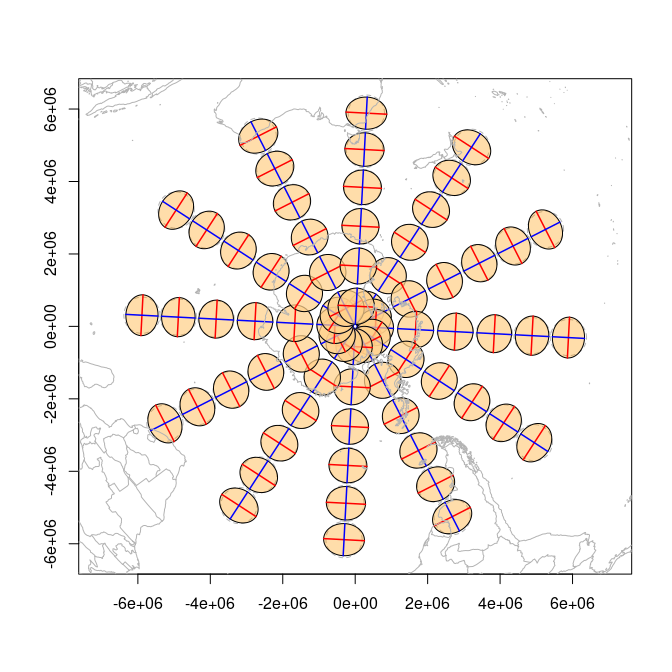
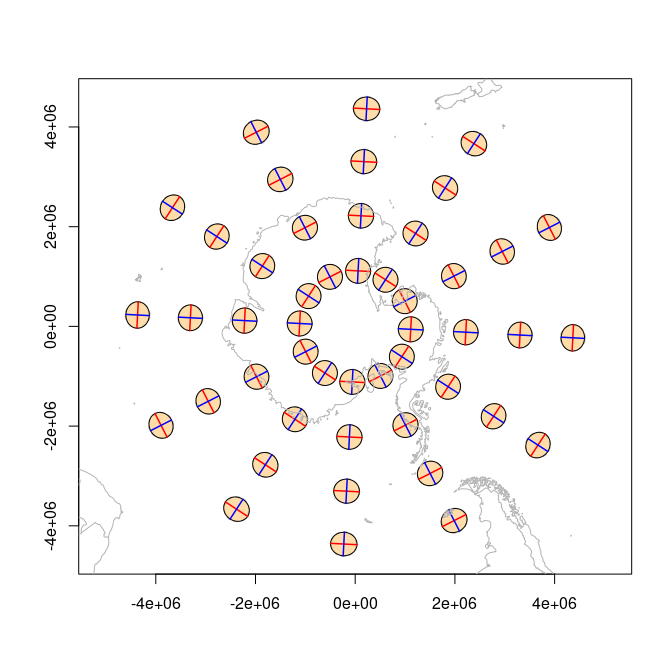
better examples for readme

diff --git a/README.md b/README.md
@@ -110,12 +110,50 @@ plot(ii2[[1]], scale = 1e4, add = FALSE, show.axes = TRUE, show.circle = TRUE)
 
 ![](man/figures/README-single-1.png)<!-- -->
 
+## Arbitrary projections
+
+Lambert Conformal Conic
+
+``` r
+pxy <- expand.grid(seq(100, 200, by = 25), seq(-75, -45, by = 10))
+p <- tissot(pxy, "+proj=lcc +lat_0=-60 +lon_0=147 +lat_1=-70 +lat_2=-55")
+plot(indicatrix(p), scale = 3e5, add = FALSE, fill.by = "scale.area")
+tissot_map()
+#> Warning in .transform_xy(pts_in, srs_from, srs_to): 1972 point(s) had missing
+#> values, NA returned in that case
+```
+
+![](man/figures/README-lcc-1.png)<!-- -->
+
+Universal Transverse Mercator
+
+``` r
+qxy <- expand.grid(seq(100, 200, by = 25), seq(-75, -45, by = 10))
+p <- tissot(qxy, "EPSG:32755")
+plot(indicatrix(p), scale = 3e5, add = FALSE, fill.by = "scale.area")
+tissot_map()
+#> GDAL FAILURE 1: Point outside of projection domain
+#> GDAL FAILURE 1: Point outside of projection domain
+#> GDAL FAILURE 1: Point outside of projection domain
+#> GDAL FAILURE 1: Point outside of projection domain
+#> GDAL FAILURE 1: Point outside of projection domain
+#> GDAL FAILURE 1: Point outside of projection domain
+#> GDAL FAILURE 1: Point outside of projection domain
+#> GDAL FAILURE 1: Point outside of projection domain
+#> Warning in .transform_xy(pts_in, srs_from, srs_to): 8 point(s) failed to
+#> transform, NA returned in that case
+#> Warning in .transform_xy(pts_in, srs_from, srs_to): 1972 point(s) had missing
+#> values, NA returned in that case
+```
+
+![](man/figures/README-utm-1.png)<!-- -->
+
 ## Polar projections
 
 ``` r
-polar_xy <- expand.grid(seq(-180, 150, by = 30), seq(-85, -30, by = 10))
+polar_xy <- expand.grid(seq(-180, 150, by = 30), seq(-80, -50, by = 10))
 p <- tissot(polar_xy, "+proj=stere +lat_0=-90 +lon_0=147")
-plot(indicatrix(p), scale = 5e5, add = FALSE, fill.by = "scale.area")
+plot(indicatrix(p), scale = 2.5e5, add = FALSE, fill.by = "scale.area")
 tissot_map()
 #> Warning in .transform_xy(pts_in, srs_from, srs_to): 1972 point(s) had missing
 #> values, NA returned in that case
@@ -125,13 +163,25 @@ tissot_map()
 
 ``` r
 la <- tissot(polar_xy, "+proj=laea +lat_0=-90 +lon_0=147")
-plot(indicatrix(la), scale = 5e5, add = FALSE)
+plot(indicatrix(la), scale = 2.5e5, add = FALSE)
 tissot_map()
 #> Warning in .transform_xy(pts_in, srs_from, srs_to): 1972 point(s) had missing
 #> values, NA returned in that case
 ```
 
 ![](man/figures/README-laea-1.png)<!-- -->
+
+Let’s push away from the pole in Lambert Azimuthal Equidistant
+
+``` r
+lea <- tissot(polar_xy, "+proj=aeqd +lat_0=-20 +lon_0=147")
+plot(indicatrix(lea), scale = 2.5e5, add = FALSE)
+tissot_map()
+#> Warning in .transform_xy(pts_in, srs_from, srs_to): 1972 point(s) had missing
+#> values, NA returned in that case
+```
+
+![](man/figures/README-aeqd-1.png)<!-- -->
 
 ## Distortion summary
 
